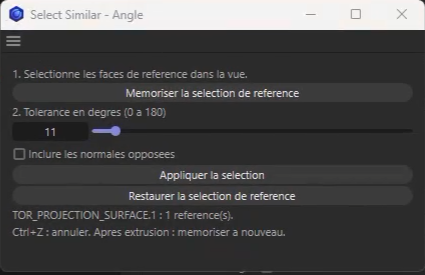
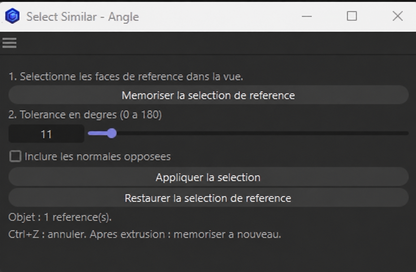
Localize selection tool previews and use generic object names

diff --git a/technical/select-similar-angle/fr/index.html b/technical/select-similar-angle/fr/index.html
@@ -26,19 +26,19 @@
   <meta name="twitter:description" content="Sélection de polygones par normales similaires dans Cinema 4D 2026 : script Python avec tolérance d’angle, références et normales opposées. Code à copier ou télécharger.">
   <meta name="twitter:image" content="https://killianpichon.art/assets/og-image.jpg">
   <link rel="icon" href="assets/icons/favicon-96.png" sizes="96x96" type="image/png">
-  <link rel="stylesheet" href="assets/technical-base.css?v=20261022-tools-v3">
-  <link rel="stylesheet" href="assets/technical-library.css?v=20261022-tools-v3">
+  <link rel="stylesheet" href="assets/technical-base.css?v=20261022-tools-v4">
+  <link rel="stylesheet" href="assets/technical-library.css?v=20261022-tools-v4">
   <link rel="stylesheet" href="assets/analytics-consent.css">
   <link rel="stylesheet" href="assets/motion-exploration.css?v=20260917-gallery-height">
   <link rel="stylesheet" href="assets/organic-floating.css?v=20260906">
   <script>window.KP_I18N={lang:"fr",t:function(s){return {"Optional analytics":"Statistiques facultatives","Close privacy choices":"Fermer les choix de confidentialité","Google Analytics helps measure visits and improve this portfolio. It stays completely unloaded unless you allow it. ":"Google Analytics sert à mesurer les visites et à améliorer ce portfolio. Il reste entièrement inactif tant que tu ne l’autorises pas. ","Privacy details":"Détails de confidentialité","Decline":"Refuser","Allow analytics":"Autoriser les statistiques"}[s]||s;}};</script>
-  <script defer src="assets/technical-library.js?v=20261022-tools-v3"></script>
+  <script defer src="assets/technical-library.js?v=20261022-tools-v4"></script>
   <script defer src="assets/analytics-consent.js"></script>
   <script defer src="assets/motion-exploration.js?v=20260917-animated-media"></script>
   <script defer src="assets/organic-floating.js?v=20260906"></script>
   <script type="application/ld+json">{"@context":"https://schema.org","@graph":[{"@type":"WebPage","@id":"https://killianpichon.art/technical/select-similar-angle/fr/#page","url":"https://killianpichon.art/technical/select-similar-angle/fr/","name":"Select Similar – Angle pour Cinema 4D 2026 — Killian Pichon","description":"Sélection de polygones par normales similaires dans Cinema 4D 2026 : script Python avec tolérance d’angle, références et normales opposées. Code à copier ou télécharger.","inLanguage":"fr-CA","author":{"@type":"Person","name":"Killian Pichon","url":"https://killianpichon.art/"},"isPartOf":{"@id":"https://killianpichon.art/#website"}},{"@type":"BreadcrumbList","itemListElement":[{"@type":"ListItem","position":1,"name":"Portfolio","item":"https://killianpichon.art/"},{"@type":"ListItem","position":2,"name":"Outils & méthodes","item":"https://killianpichon.art/technical/fr/"},{"@type":"ListItem","position":3,"name":"Select Similar – Angle","item":"https://killianpichon.art/technical/select-similar-angle/fr/"}]},{"@type":"SoftwareSourceCode","name":"Select Similar – Angle","description":"Sélectionner des faces d’orientation similaire, même séparées, sur un maillage architectural ou géométrique.","programmingLanguage":"Python","runtimePlatform":"Cinema 4D 2026","codeSampleType":"full","url":"https://killianpichon.art/technical/select-similar-angle/fr/","contentUrl":"https://killianpichon.art/downloads/Select_Similar_Angle.py","author":{"@type":"Person","name":"Killian Pichon","url":"https://killianpichon.art/"}}]}</script>
 </head>
-<body><div id="root"><nav class="site-nav tool-static-nav" aria-label="Navigation principale"><a class="site-mark" href="?lang=fr#/work" aria-label="Killian Pichon">KP</a><div class="site-nav-links"><a class="site-nav-link" href="?lang=fr#/work">Projets</a><a class="site-nav-link" href="?lang=fr#/about">Profil</a><a class="site-nav-link" href="technical/fr/" aria-current="page">Technique</a><a class="site-nav-link" href="?lang=fr#/contact">Contact</a></div><div class="site-lang" role="group" aria-label="Langue"><a class="site-lang-link" href="technical/select-similar-angle/" hreflang="en" lang="en" aria-label="English">EN</a><span class="site-lang-sep" aria-hidden="true">/</span><a class="site-lang-link" href="technical/select-similar-angle/fr/" hreflang="fr" lang="fr" aria-label="Français" aria-current="true">FR</a></div></nav><main class="tool-main"><a class="tool-text-link" href="technical/fr/#personal">← Tous les outils et méthodes</a><header class="tool-intro"><p class="tool-eyebrow">Outils personnels</p><h1>Select Similar – Angle</h1><p>Sélectionner des faces d’orientation similaire, même séparées, sur un maillage architectural ou géométrique.</p><div class="tool-tags"><span>Cinema 4D 2026</span><span>Python</span><span>Sélection de polygones</span></div></header><figure class="tool-interface"><picture><source srcset="assets/tools/select-similar-angle-interface.webp" type="image/webp"><img src="assets/tools/select-similar-angle-interface.png" width="425" height="275" alt="Interface française de Select Similar – Angle avec curseur d’angle, option de normales opposées et boutons Mémoriser, Appliquer et Restaurer." decoding="async"></picture><figcaption class="tool-note">La fenêtre flottante de l’outil dans Cinema 4D, en français. Les scripts français et anglais sont disponibles ci-dessous.</figcaption></figure><div class="tool-story"><section class="tool-section"><h2>Le besoin</h2><p>Sélectionner les faces une par une ralentissait ma modélisation. Je voulais retrouver le principe de Select Similar → Normal de Blender directement dans Cinema 4D, sans changer de logiciel.</p></section><section class="tool-section"><h2>La réponse</h2><p>J’ai développé ce script Python avec l’aide de l’IA, en précisant les paramètres dont j’avais besoin : une sélection de référence, une tolérance d’angle et la possibilité de revenir au point de départ. La fenêtre reste ouverte pendant que je travaille dans la vue.</p></section><section class="tool-section"><h2>À l’usage</h2><p>Testé dans Cinema 4D 2026 dans mon propre workflow. Il me permet de répéter la sélection et d’essayer différentes tolérances sans revenir dans Blender.</p></section></div><section class="tool-section"><h2>Commandes</h2><ul><li>Un curseur d’angle de 0 à 180°.</li><li>Mémoriser la sélection pour fixer les faces de référence.</li><li>Appliquer différentes tolérances à partir de ces références.</li><li>Restaurer la sélection visible de départ.</li><li>Une option pour inclure les normales opposées.</li></ul></section><section class="tool-section"><h2>Mode d’emploi</h2><ol><li>Choisir le script français ou anglais ci-dessous, l’ouvrir dans le Script Manager de Cinema 4D et le lancer.</li><li>Choisir un objet polygonal éditable, passer en mode Polygones et sélectionner les faces de référence.</li><li>Dans la version française, cliquer sur « Memoriser la selection de reference ».</li><li>Régler l’angle, inclure les normales opposées si nécessaire, puis cliquer sur « Appliquer la selection ».</li><li>Ajuster et appliquer à nouveau, ou utiliser « Restaurer la selection de reference » pour retrouver les faces de départ.</li></ol></section><section class="tool-section"><h2>Périmètre et limites</h2><p>Le script agit sur l’objet polygonal actif et compare les normales géométriques dans l’espace local de l’objet. Les faces masquées conservent leur état de sélection. Les normales Phong et les déformations ne sont pas évaluées ; les n-gones utilisent les triangles et quadrangles internes de Cinema 4D. Après un changement de topologie, mémoriser à nouveau les références. Ctrl+Z annule la sélection.</p></section><p class="tool-note">Version française d’origine testée par l’auteur dans Cinema 4D 2026. La version anglaise traduit l’interface et les messages, avec la même logique de sélection. Les autres versions de Cinema 4D n’ont pas été vérifiées.</p><section class="tool-section tool-code" aria-labelledby="source-heading"><div class="tool-code-header"><h2 id="source-heading">Code source Python — Français</h2><div class="tool-actions"><button class="tool-button tool-button-primary" type="button" data-copy-code data-copied="Code copié." data-fallback="Copie automatique indisponible. Code sélectionné : utiliser Ctrl+C ou ⌘C.">Copier le code</button><a class="tool-button" href="downloads/Select_Similar_Angle.py" download="Select_Similar_Angle.py">Télécharger le .py</a></div></div><p>Le script complet ci-dessous est identique au fichier .py téléchargeable.</p><label class="tool-sr-only" for="tool-source">Code à coller dans le Script Manager de Cinema 4D — Français</label><textarea id="tool-source" class="tool-source" readonly spellcheck="false" wrap="off" rows="18"># -*- coding: utf-8 -*-
+<body><div id="root"><nav class="site-nav tool-static-nav" aria-label="Navigation principale"><a class="site-mark" href="?lang=fr#/work" aria-label="Killian Pichon">KP</a><div class="site-nav-links"><a class="site-nav-link" href="?lang=fr#/work">Projets</a><a class="site-nav-link" href="?lang=fr#/about">Profil</a><a class="site-nav-link" href="technical/fr/" aria-current="page">Technique</a><a class="site-nav-link" href="?lang=fr#/contact">Contact</a></div><div class="site-lang" role="group" aria-label="Langue"><a class="site-lang-link" href="technical/select-similar-angle/" hreflang="en" lang="en" aria-label="English">EN</a><span class="site-lang-sep" aria-hidden="true">/</span><a class="site-lang-link" href="technical/select-similar-angle/fr/" hreflang="fr" lang="fr" aria-label="Français" aria-current="true">FR</a></div></nav><main class="tool-main"><a class="tool-text-link" href="technical/fr/#personal">← Tous les outils et méthodes</a><header class="tool-intro"><p class="tool-eyebrow">Outils personnels</p><h1>Select Similar – Angle</h1><p>Sélectionner des faces d’orientation similaire, même séparées, sur un maillage architectural ou géométrique.</p><div class="tool-tags"><span>Cinema 4D 2026</span><span>Python</span><span>Sélection de polygones</span></div></header><figure class="tool-interface"><picture><source srcset="assets/tools/select-similar-angle-interface.webp?v=20261022-tools-v4" type="image/webp"><img src="assets/tools/select-similar-angle-interface.png?v=20261022-tools-v4" width="416" height="272" alt="Interface française de Select Similar – Angle avec curseur d’angle, option de normales opposées, boutons Mémoriser, Appliquer et Restaurer, et le nom générique Objet." decoding="async"></picture><figcaption class="tool-note">La fenêtre flottante de l’outil dans Cinema 4D, avec un nom d’objet générique.</figcaption></figure><div class="tool-story"><section class="tool-section"><h2>Le besoin</h2><p>Sélectionner les faces une par une ralentissait ma modélisation. Je voulais retrouver le principe de Select Similar → Normal de Blender directement dans Cinema 4D, sans changer de logiciel.</p></section><section class="tool-section"><h2>La réponse</h2><p>J’ai développé ce script Python avec l’aide de l’IA, en précisant les paramètres dont j’avais besoin : une sélection de référence, une tolérance d’angle et la possibilité de revenir au point de départ. La fenêtre reste ouverte pendant que je travaille dans la vue.</p></section><section class="tool-section"><h2>À l’usage</h2><p>Testé dans Cinema 4D 2026 dans mon propre workflow. Il me permet de répéter la sélection et d’essayer différentes tolérances sans revenir dans Blender.</p></section></div><section class="tool-section"><h2>Commandes</h2><ul><li>Un curseur d’angle de 0 à 180°.</li><li>Mémoriser la sélection pour fixer les faces de référence.</li><li>Appliquer différentes tolérances à partir de ces références.</li><li>Restaurer la sélection visible de départ.</li><li>Une option pour inclure les normales opposées.</li></ul></section><section class="tool-section"><h2>Mode d’emploi</h2><ol><li>Choisir le script français ou anglais ci-dessous, l’ouvrir dans le Script Manager de Cinema 4D et le lancer.</li><li>Choisir un objet polygonal éditable, passer en mode Polygones et sélectionner les faces de référence.</li><li>Dans la version française, cliquer sur « Memoriser la selection de reference ».</li><li>Régler l’angle, inclure les normales opposées si nécessaire, puis cliquer sur « Appliquer la selection ».</li><li>Ajuster et appliquer à nouveau, ou utiliser « Restaurer la selection de reference » pour retrouver les faces de départ.</li></ol></section><section class="tool-section"><h2>Périmètre et limites</h2><p>Le script agit sur l’objet polygonal actif et compare les normales géométriques dans l’espace local de l’objet. Les faces masquées conservent leur état de sélection. Les normales Phong et les déformations ne sont pas évaluées ; les n-gones utilisent les triangles et quadrangles internes de Cinema 4D. Après un changement de topologie, mémoriser à nouveau les références. Ctrl+Z annule la sélection.</p></section><p class="tool-note">Version française d’origine testée par l’auteur dans Cinema 4D 2026. La version anglaise traduit l’interface et les messages, avec la même logique de sélection. Les autres versions de Cinema 4D n’ont pas été vérifiées.</p><section class="tool-section tool-code" aria-labelledby="source-heading"><div class="tool-code-header"><h2 id="source-heading">Code source Python — Français</h2><div class="tool-actions"><button class="tool-button tool-button-primary" type="button" data-copy-code data-copied="Code copié." data-fallback="Copie automatique indisponible. Code sélectionné : utiliser Ctrl+C ou ⌘C.">Copier le code</button><a class="tool-button" href="downloads/Select_Similar_Angle.py" download="Select_Similar_Angle.py">Télécharger le .py</a></div></div><p>Le script complet ci-dessous est identique au fichier .py téléchargeable.</p><label class="tool-sr-only" for="tool-source">Code à coller dans le Script Manager de Cinema 4D — Français</label><textarea id="tool-source" class="tool-source" readonly spellcheck="false" wrap="off" rows="18"># -*- coding: utf-8 -*-
 &quot;&quot;&quot;Cinema 4D Script Manager: selection similaire par normales geometriques.
 
 Utilisation : objet polygonal editable, mode Polygones, selectionner une

diff --git a/technical/select-similar-angle/index.html b/technical/select-similar-angle/index.html
@@ -26,19 +26,19 @@
   <meta name="twitter:description" content="Select similar polygon normals in Cinema 4D 2026. Python script with angle tolerance, reference selection and opposite normals. Copy the code or download it.">
   <meta name="twitter:image" content="https://killianpichon.art/assets/og-image.jpg">
   <link rel="icon" href="assets/icons/favicon-96.png" sizes="96x96" type="image/png">
-  <link rel="stylesheet" href="assets/technical-base.css?v=20261022-tools-v3">
-  <link rel="stylesheet" href="assets/technical-library.css?v=20261022-tools-v3">
+  <link rel="stylesheet" href="assets/technical-base.css?v=20261022-tools-v4">
+  <link rel="stylesheet" href="assets/technical-library.css?v=20261022-tools-v4">
   <link rel="stylesheet" href="assets/analytics-consent.css">
   <link rel="stylesheet" href="assets/motion-exploration.css?v=20260917-gallery-height">
   <link rel="stylesheet" href="assets/organic-floating.css?v=20260906">
   <script>window.KP_I18N={lang:"en",t:function(s){return {}[s]||s;}};</script>
-  <script defer src="assets/technical-library.js?v=20261022-tools-v3"></script>
+  <script defer src="assets/technical-library.js?v=20261022-tools-v4"></script>
   <script defer src="assets/analytics-consent.js"></script>
   <script defer src="assets/motion-exploration.js?v=20260917-animated-media"></script>
   <script defer src="assets/organic-floating.js?v=20260906"></script>
   <script type="application/ld+json">{"@context":"https://schema.org","@graph":[{"@type":"WebPage","@id":"https://killianpichon.art/technical/select-similar-angle/#page","url":"https://killianpichon.art/technical/select-similar-angle/","name":"Select Similar – Angle for Cinema 4D 2026 — Killian Pichon","description":"Select similar polygon normals in Cinema 4D 2026. Python script with angle tolerance, reference selection and opposite normals. Copy the code or download it.","inLanguage":"en-CA","author":{"@type":"Person","name":"Killian Pichon","url":"https://killianpichon.art/"},"isPartOf":{"@id":"https://killianpichon.art/#website"}},{"@type":"BreadcrumbList","itemListElement":[{"@type":"ListItem","position":1,"name":"Portfolio","item":"https://killianpichon.art/"},{"@type":"ListItem","position":2,"name":"Tools & workflows","item":"https://killianpichon.art/technical/"},{"@type":"ListItem","position":3,"name":"Select Similar – Angle","item":"https://killianpichon.art/technical/select-similar-angle/"}]},{"@type":"SoftwareSourceCode","name":"Select Similar – Angle","description":"Select faces with a similar orientation, even across disconnected parts of an architectural or geometric mesh.","programmingLanguage":"Python","runtimePlatform":"Cinema 4D 2026","codeSampleType":"full","url":"https://killianpichon.art/technical/select-similar-angle/","contentUrl":"https://killianpichon.art/downloads/Select_Similar_Angle_EN.py","author":{"@type":"Person","name":"Killian Pichon","url":"https://killianpichon.art/"}}]}</script>
 </head>
-<body><div id="root"><nav class="site-nav tool-static-nav" aria-label="Primary navigation"><a class="site-mark" href="?lang=en#/work" aria-label="Killian Pichon">KP</a><div class="site-nav-links"><a class="site-nav-link" href="?lang=en#/work">Work</a><a class="site-nav-link" href="?lang=en#/about">About</a><a class="site-nav-link" href="technical/" aria-current="page">Technical</a><a class="site-nav-link" href="?lang=en#/contact">Contact</a></div><div class="site-lang" role="group" aria-label="Language"><a class="site-lang-link" href="technical/select-similar-angle/" hreflang="en" lang="en" aria-label="English" aria-current="true">EN</a><span class="site-lang-sep" aria-hidden="true">/</span><a class="site-lang-link" href="technical/select-similar-angle/fr/" hreflang="fr" lang="fr" aria-label="Français">FR</a></div></nav><main class="tool-main"><a class="tool-text-link" href="technical/#personal">← All tools &amp; workflows</a><header class="tool-intro"><p class="tool-eyebrow">Personal tools</p><h1>Select Similar – Angle</h1><p>Select faces with a similar orientation, even across disconnected parts of an architectural or geometric mesh.</p><div class="tool-tags"><span>Cinema 4D 2026</span><span>Python</span><span>Polygon selection</span></div></header><figure class="tool-interface"><picture><source srcset="assets/tools/select-similar-angle-interface.webp" type="image/webp"><img src="assets/tools/select-similar-angle-interface.png" width="425" height="275" alt="French Select Similar – Angle interface with angle slider, opposite normals option, and capture, apply and restore buttons." decoding="async"></picture><figcaption class="tool-note">French version of the floating tool window in Cinema 4D. English and French scripts are available below.</figcaption></figure><div class="tool-story"><section class="tool-section"><h2>The task</h2><p>Selecting faces one by one was slowing down my modelling. I wanted the principle of Blender’s Select Similar → Normal directly in Cinema 4D, without switching applications.</p></section><section class="tool-section"><h2>The approach</h2><p>I developed this Python script with AI assistance, specifying the controls I actually needed: a reference selection, an angle tolerance and a way to restore the starting point. The floating window stays open while I work in the viewport.</p></section><section class="tool-section"><h2>In use</h2><p>Tested in Cinema 4D 2026 in my own workflow. It lets me repeat the selection and try different tolerances without returning to Blender.</p></section></div><section class="tool-section"><h2>Controls</h2><ul><li>Angle slider from 0 to 180°.</li><li>Capture the selection to keep a set of reference faces.</li><li>Apply different tolerances against those references.</li><li>Restore the original visible selection.</li><li>Optionally include opposite normals.</li></ul></section><section class="tool-section"><h2>Workflow</h2><ol><li>Choose the English or French script below, open it in Cinema 4D’s Script Manager and run it.</li><li>Choose an editable polygon object, switch to Polygon mode and select reference faces.</li><li>In the English version, click “Capture reference selection”.</li><li>Set the angle, optionally include opposite normals, then click “Apply selection”.</li><li>Adjust and apply again, or use “Restore reference selection” to return to the starting faces.</li></ol></section><section class="tool-section"><h2>Scope &amp; limitations</h2><p>Works on the active polygon object, using geometric normals in object-local space. Hidden faces keep their selection state. Phong normals and deformations are not evaluated; n-gons use Cinema 4D’s internal triangles and quads. After a topology change, capture the references again. Ctrl+Z undoes the selection.</p></section><p class="tool-note">Original French version tested by the author in Cinema 4D 2026. The English version translates the interface and messages, with the same selection logic. Other Cinema 4D versions have not been verified.</p><section class="tool-section tool-code" aria-labelledby="source-heading"><div class="tool-code-header"><h2 id="source-heading">Python source — English</h2><div class="tool-actions"><button class="tool-button tool-button-primary" type="button" data-copy-code data-copied="Code copied." data-fallback="Automatic copy unavailable. Code selected: use Ctrl+C or ⌘C.">Copy code</button><a class="tool-button" href="downloads/Select_Similar_Angle_EN.py" download="Select_Similar_Angle_EN.py">Download .py</a></div></div><p>The complete script below is identical to the downloadable .py file.</p><label class="tool-sr-only" for="tool-source">Code to paste into the Cinema 4D Script Manager — English</label><textarea id="tool-source" class="tool-source" readonly spellcheck="false" wrap="off" rows="18"># -*- coding: utf-8 -*-
+<body><div id="root"><nav class="site-nav tool-static-nav" aria-label="Primary navigation"><a class="site-mark" href="?lang=en#/work" aria-label="Killian Pichon">KP</a><div class="site-nav-links"><a class="site-nav-link" href="?lang=en#/work">Work</a><a class="site-nav-link" href="?lang=en#/about">About</a><a class="site-nav-link" href="technical/" aria-current="page">Technical</a><a class="site-nav-link" href="?lang=en#/contact">Contact</a></div><div class="site-lang" role="group" aria-label="Language"><a class="site-lang-link" href="technical/select-similar-angle/" hreflang="en" lang="en" aria-label="English" aria-current="true">EN</a><span class="site-lang-sep" aria-hidden="true">/</span><a class="site-lang-link" href="technical/select-similar-angle/fr/" hreflang="fr" lang="fr" aria-label="Français">FR</a></div></nav><main class="tool-main"><a class="tool-text-link" href="technical/#personal">← All tools &amp; workflows</a><header class="tool-intro"><p class="tool-eyebrow">Personal tools</p><h1>Select Similar – Angle</h1><p>Select faces with a similar orientation, even across disconnected parts of an architectural or geometric mesh.</p><div class="tool-tags"><span>Cinema 4D 2026</span><span>Python</span><span>Polygon selection</span></div></header><figure class="tool-interface"><picture><source srcset="assets/tools/select-similar-angle-interface-en.webp" type="image/webp"><img src="assets/tools/select-similar-angle-interface-en.png" width="416" height="272" alt="English Select Similar – Angle interface with angle slider, opposite normals option, capture, apply and restore buttons, and the generic object name Object." decoding="async"></picture><figcaption class="tool-note">English interface preview, translated from the original screenshot.</figcaption></figure><div class="tool-story"><section class="tool-section"><h2>The task</h2><p>Selecting faces one by one was slowing down my modelling. I wanted the principle of Blender’s Select Similar → Normal directly in Cinema 4D, without switching applications.</p></section><section class="tool-section"><h2>The approach</h2><p>I developed this Python script with AI assistance, specifying the controls I actually needed: a reference selection, an angle tolerance and a way to restore the starting point. The floating window stays open while I work in the viewport.</p></section><section class="tool-section"><h2>In use</h2><p>Tested in Cinema 4D 2026 in my own workflow. It lets me repeat the selection and try different tolerances without returning to Blender.</p></section></div><section class="tool-section"><h2>Controls</h2><ul><li>Angle slider from 0 to 180°.</li><li>Capture the selection to keep a set of reference faces.</li><li>Apply different tolerances against those references.</li><li>Restore the original visible selection.</li><li>Optionally include opposite normals.</li></ul></section><section class="tool-section"><h2>Workflow</h2><ol><li>Choose the English or French script below, open it in Cinema 4D’s Script Manager and run it.</li><li>Choose an editable polygon object, switch to Polygon mode and select reference faces.</li><li>In the English version, click “Capture reference selection”.</li><li>Set the angle, optionally include opposite normals, then click “Apply selection”.</li><li>Adjust and apply again, or use “Restore reference selection” to return to the starting faces.</li></ol></section><section class="tool-section"><h2>Scope &amp; limitations</h2><p>Works on the active polygon object, using geometric normals in object-local space. Hidden faces keep their selection state. Phong normals and deformations are not evaluated; n-gons use Cinema 4D’s internal triangles and quads. After a topology change, capture the references again. Ctrl+Z undoes the selection.</p></section><p class="tool-note">Original French version tested by the author in Cinema 4D 2026. The English version translates the interface and messages, with the same selection logic. Other Cinema 4D versions have not been verified.</p><section class="tool-section tool-code" aria-labelledby="source-heading"><div class="tool-code-header"><h2 id="source-heading">Python source — English</h2><div class="tool-actions"><button class="tool-button tool-button-primary" type="button" data-copy-code data-copied="Code copied." data-fallback="Automatic copy unavailable. Code selected: use Ctrl+C or ⌘C.">Copy code</button><a class="tool-button" href="downloads/Select_Similar_Angle_EN.py" download="Select_Similar_Angle_EN.py">Download .py</a></div></div><p>The complete script below is identical to the downloadable .py file.</p><label class="tool-sr-only" for="tool-source">Code to paste into the Cinema 4D Script Manager — English</label><textarea id="tool-source" class="tool-source" readonly spellcheck="false" wrap="off" rows="18"># -*- coding: utf-8 -*-
 &quot;&quot;&quot;Cinema 4D Script Manager: select similar geometric polygon normals.
 
 Usage: select one or more faces on an editable polygon object in Polygon mode,

diff --git a/data/technical.js b/data/technical.js
@@ -2,7 +2,7 @@
 (function (root) {
   const content = {
     updated: '2026-10-22',
-    revision: '20261022-tools-v3',
+    revision: '20261022-tools-v4',
     en: {
       title: 'Tools & workflows',
       meta: 'Cinema 4D Python scripts, production tools and DJ MIDI mappings by Killian Pichon. Personal tools, professional work and experiments to reuse.',
@@ -27,7 +27,7 @@
           need: 'Selecting faces one by one was slowing down my modelling. I wanted the principle of Blender’s Select Similar → Normal directly in Cinema 4D, without switching applications.',
           response: 'I developed this Python script with AI assistance, specifying the controls I actually needed: a reference selection, an angle tolerance and a way to restore the starting point. The floating window stays open while I work in the viewport.',
           result: 'Tested in Cinema 4D 2026 in my own workflow. It lets me repeat the selection and try different tolerances without returning to Blender.',
-          preview: { src: 'assets/tools/select-similar-angle-interface.webp', fallback: 'assets/tools/select-similar-angle-interface.png', width: 425, height: 275, alt: 'French Select Similar – Angle interface with angle slider, opposite normals option, and capture, apply and restore buttons.', caption: 'French version of the floating tool window in Cinema 4D. English and French scripts are available below.' },
+          preview: { src: 'assets/tools/select-similar-angle-interface-en.webp', fallback: 'assets/tools/select-similar-angle-interface-en.png', width: 416, height: 272, alt: 'English Select Similar – Angle interface with angle slider, opposite normals option, capture, apply and restore buttons, and the generic object name Object.', caption: 'English interface preview, translated from the original screenshot.' },
           features: ['Angle slider from 0 to 180°.', 'Capture the selection to keep a set of reference faces.', 'Apply different tolerances against those references.', 'Restore the original visible selection.', 'Optionally include opposite normals.'],
           workflow: ['Choose the English or French script below, open it in Cinema 4D’s Script Manager and run it.', 'Choose an editable polygon object, switch to Polygon mode and select reference faces.', 'In the English version, click “Capture reference selection”.', 'Set the angle, optionally include opposite normals, then click “Apply selection”.', 'Adjust and apply again, or use “Restore reference selection” to return to the starting faces.'],
           limits: 'Works on the active polygon object, using geometric normals in object-local space. Hidden faces keep their selection state. Phong normals and deformations are not evaluated; n-gons use Cinema 4D’s internal triangles and quads. After a topology change, capture the references again. Ctrl+Z undoes the selection.',
@@ -78,7 +78,7 @@
           need: 'Sélectionner les faces une par une ralentissait ma modélisation. Je voulais retrouver le principe de Select Similar → Normal de Blender directement dans Cinema 4D, sans changer de logiciel.',
           response: 'J’ai développé ce script Python avec l’aide de l’IA, en précisant les paramètres dont j’avais besoin : une sélection de référence, une tolérance d’angle et la possibilité de revenir au point de départ. La fenêtre reste ouverte pendant que je travaille dans la vue.',
           result: 'Testé dans Cinema 4D 2026 dans mon propre workflow. Il me permet de répéter la sélection et d’essayer différentes tolérances sans revenir dans Blender.',
-          preview: { src: 'assets/tools/select-similar-angle-interface.webp', fallback: 'assets/tools/select-similar-angle-interface.png', width: 425, height: 275, alt: 'Interface française de Select Similar – Angle avec curseur d’angle, option de normales opposées et boutons Mémoriser, Appliquer et Restaurer.', caption: 'La fenêtre flottante de l’outil dans Cinema 4D, en français. Les scripts français et anglais sont disponibles ci-dessous.' },
+          preview: { src: 'assets/tools/select-similar-angle-interface.webp?v=20261022-tools-v4', fallback: 'assets/tools/select-similar-angle-interface.png?v=20261022-tools-v4', width: 416, height: 272, alt: 'Interface française de Select Similar – Angle avec curseur d’angle, option de normales opposées, boutons Mémoriser, Appliquer et Restaurer, et le nom générique Objet.', caption: 'La fenêtre flottante de l’outil dans Cinema 4D, avec un nom d’objet générique.' },
           features: ['Un curseur d’angle de 0 à 180°.', 'Mémoriser la sélection pour fixer les faces de référence.', 'Appliquer différentes tolérances à partir de ces références.', 'Restaurer la sélection visible de départ.', 'Une option pour inclure les normales opposées.'],
           workflow: ['Choisir le script français ou anglais ci-dessous, l’ouvrir dans le Script Manager de Cinema 4D et le lancer.', 'Choisir un objet polygonal éditable, passer en mode Polygones et sélectionner les faces de référence.', 'Dans la version française, cliquer sur « Memoriser la selection de reference ».', 'Régler l’angle, inclure les normales opposées si nécessaire, puis cliquer sur « Appliquer la selection ».', 'Ajuster et appliquer à nouveau, ou utiliser « Restaurer la selection de reference » pour retrouver les faces de départ.'],
           limits: 'Le script agit sur l’objet polygonal actif et compare les normales géométriques dans l’espace local de l’objet. Les faces masquées conservent leur état de sélection. Les normales Phong et les déformations ne sont pas évaluées ; les n-gones utilisent les triangles et quadrangles internes de Cinema 4D. Après un changement de topologie, mémoriser à nouveau les références. Ctrl+Z annule la sélection.',

diff --git a/technical/fr/index.html b/technical/fr/index.html
@@ -26,13 +26,13 @@
   <meta name="twitter:description" content="Scripts Python pour Cinema 4D, outils de production et mappings MIDI DJ de Killian Pichon. Projets professionnels, outils personnels et expérimentations à réutiliser.">
   <meta name="twitter:image" content="https://killianpichon.art/assets/og-image.jpg">
   <link rel="icon" href="assets/icons/favicon-96.png" sizes="96x96" type="image/png">
-  <link rel="stylesheet" href="assets/technical-base.css?v=20261022-tools-v3">
-  <link rel="stylesheet" href="assets/technical-library.css?v=20261022-tools-v3">
+  <link rel="stylesheet" href="assets/technical-base.css?v=20261022-tools-v4">
+  <link rel="stylesheet" href="assets/technical-library.css?v=20261022-tools-v4">
   <link rel="stylesheet" href="assets/analytics-consent.css">
   <link rel="stylesheet" href="assets/motion-exploration.css?v=20260917-gallery-height">
   <link rel="stylesheet" href="assets/organic-floating.css?v=20260906">
   <script>window.KP_I18N={lang:"fr",t:function(s){return {"Optional analytics":"Statistiques facultatives","Close privacy choices":"Fermer les choix de confidentialité","Google Analytics helps measure visits and improve this portfolio. It stays completely unloaded unless you allow it. ":"Google Analytics sert à mesurer les visites et à améliorer ce portfolio. Il reste entièrement inactif tant que tu ne l’autorises pas. ","Privacy details":"Détails de confidentialité","Decline":"Refuser","Allow analytics":"Autoriser les statistiques"}[s]||s;}};</script>
-  <script defer src="assets/technical-library.js?v=20261022-tools-v3"></script>
+  <script defer src="assets/technical-library.js?v=20261022-tools-v4"></script>
   <script defer src="assets/analytics-consent.js"></script>
   <script defer src="assets/motion-exploration.js?v=20260917-animated-media"></script>
   <script defer src="assets/organic-floating.js?v=20260906"></script>

diff --git a/technical/denon-sc2000-traktor/fr/index.html b/technical/denon-sc2000-traktor/fr/index.html
@@ -26,13 +26,13 @@
   <meta name="twitter:description" content="Mapping Denon DN-SC2000 pour Traktor Pro 4 : deux decks, effets et configuration MIDI documentée. Version 5.1.0 testée par Killian Pichon.">
   <meta name="twitter:image" content="https://killianpichon.art/assets/og-image.jpg">
   <link rel="icon" href="assets/icons/favicon-96.png" sizes="96x96" type="image/png">
-  <link rel="stylesheet" href="assets/technical-base.css?v=20261022-tools-v3">
-  <link rel="stylesheet" href="assets/technical-library.css?v=20261022-tools-v3">
+  <link rel="stylesheet" href="assets/technical-base.css?v=20261022-tools-v4">
+  <link rel="stylesheet" href="assets/technical-library.css?v=20261022-tools-v4">
   <link rel="stylesheet" href="assets/analytics-consent.css">
   <link rel="stylesheet" href="assets/motion-exploration.css?v=20260917-gallery-height">
   <link rel="stylesheet" href="assets/organic-floating.css?v=20260906">
   <script>window.KP_I18N={lang:"fr",t:function(s){return {"Optional analytics":"Statistiques facultatives","Close privacy choices":"Fermer les choix de confidentialité","Google Analytics helps measure visits and improve this portfolio. It stays completely unloaded unless you allow it. ":"Google Analytics sert à mesurer les visites et à améliorer ce portfolio. Il reste entièrement inactif tant que tu ne l’autorises pas. ","Privacy details":"Détails de confidentialité","Decline":"Refuser","Allow analytics":"Autoriser les statistiques"}[s]||s;}};</script>
-  <script defer src="assets/technical-library.js?v=20261022-tools-v3"></script>
+  <script defer src="assets/technical-library.js?v=20261022-tools-v4"></script>
   <script defer src="assets/analytics-consent.js"></script>
   <script defer src="assets/motion-exploration.js?v=20260917-animated-media"></script>
   <script defer src="assets/organic-floating.js?v=20260906"></script>

diff --git a/technical/index.html b/technical/index.html
@@ -26,13 +26,13 @@
   <meta name="twitter:description" content="Cinema 4D Python scripts, production tools and DJ MIDI mappings by Killian Pichon. Personal tools, professional work and experiments to reuse.">
   <meta name="twitter:image" content="https://killianpichon.art/assets/og-image.jpg">
   <link rel="icon" href="assets/icons/favicon-96.png" sizes="96x96" type="image/png">
-  <link rel="stylesheet" href="assets/technical-base.css?v=20261022-tools-v3">
-  <link rel="stylesheet" href="assets/technical-library.css?v=20261022-tools-v3">
+  <link rel="stylesheet" href="assets/technical-base.css?v=20261022-tools-v4">
+  <link rel="stylesheet" href="assets/technical-library.css?v=20261022-tools-v4">
   <link rel="stylesheet" href="assets/analytics-consent.css">
   <link rel="stylesheet" href="assets/motion-exploration.css?v=20260917-gallery-height">
   <link rel="stylesheet" href="assets/organic-floating.css?v=20260906">
   <script>window.KP_I18N={lang:"en",t:function(s){return {}[s]||s;}};</script>
-  <script defer src="assets/technical-library.js?v=20261022-tools-v3"></script>
+  <script defer src="assets/technical-library.js?v=20261022-tools-v4"></script>
   <script defer src="assets/analytics-consent.js"></script>
   <script defer src="assets/motion-exploration.js?v=20260917-animated-media"></script>
   <script defer src="assets/organic-floating.js?v=20260906"></script>

diff --git a/technical/denon-sc2000-traktor/index.html b/technical/denon-sc2000-traktor/index.html
@@ -26,13 +26,13 @@
   <meta name="twitter:description" content="Denon DN-SC2000 mapping for Traktor Pro 4: two decks, FX and a documented MIDI setup. Version 5.1.0 tested by Killian Pichon.">
   <meta name="twitter:image" content="https://killianpichon.art/assets/og-image.jpg">
   <link rel="icon" href="assets/icons/favicon-96.png" sizes="96x96" type="image/png">
-  <link rel="stylesheet" href="assets/technical-base.css?v=20261022-tools-v3">
-  <link rel="stylesheet" href="assets/technical-library.css?v=20261022-tools-v3">
+  <link rel="stylesheet" href="assets/technical-base.css?v=20261022-tools-v4">
+  <link rel="stylesheet" href="assets/technical-library.css?v=20261022-tools-v4">
   <link rel="stylesheet" href="assets/analytics-consent.css">
   <link rel="stylesheet" href="assets/motion-exploration.css?v=20260917-gallery-height">
   <link rel="stylesheet" href="assets/organic-floating.css?v=20260906">
   <script>window.KP_I18N={lang:"en",t:function(s){return {}[s]||s;}};</script>
-  <script defer src="assets/technical-library.js?v=20261022-tools-v3"></script>
+  <script defer src="assets/technical-library.js?v=20261022-tools-v4"></script>
   <script defer src="assets/analytics-consent.js"></script>
   <script defer src="assets/motion-exploration.js?v=20260917-animated-media"></script>
   <script defer src="assets/organic-floating.js?v=20260906"></script>

diff --git a/index.html b/index.html
@@ -18,7 +18,7 @@
   <link rel="preconnect" href="https://fonts.gstatic.com" crossorigin>
   <link rel="stylesheet" href="assets/analytics-consent.css">
   <link rel="stylesheet" href="assets/protected-content.css">
-  <link rel="stylesheet" href="assets/technical-library.css?v=20261022-tools-v3">
+  <link rel="stylesheet" href="assets/technical-library.css?v=20261022-tools-v4">
   <script defer src="assets/analytics-consent.js"></script>
   <script defer src="assets/protected-content.js"></script>
   <link rel="stylesheet" href="assets/motion-exploration.css?v=20260917-gallery-height">
@@ -713,8 +713,8 @@ function(a,b,c){if(!Vd(b))throw Error(m(200));return Wd(null,a,b,!1,c)};Q.unmoun
 })();
 </script>
   <script>window.KP_SHOW_TECHNICAL = true;</script>
-  <script src="data/technical.js?v=20261022-tools-v3"></script>
-  <script src="assets/technical-library.js?v=20261022-tools-v3"></script>
+  <script src="data/technical.js?v=20261022-tools-v4"></script>
+  <script src="assets/technical-library.js?v=20261022-tools-v4"></script>
   <!-- Fiches des projets. Chargement classique, sans defer : l'application
        ci-dessous les lit pendant son evaluation. -->
   <script src="data/projects.js?v=20261021-nda-title"></script>

diff --git a/README.md b/README.md
@@ -1,5 +1,24 @@
 # Portfolio de Killian Pichon
 
+### Captures de l’outil localisées — 22 octobre 2026
+
+La capture française de Select Similar – Angle remplace le nom de l’objet
+par « Objet ». Une variante anglaise reprend les libellés exacts du script
+anglais et affiche « Object ». Chaque fiche utilise l’image de sa langue ;
+la légende anglaise précise qu’elle est traduite depuis la capture d’origine.
+Ces retouches utilisent ImageGen intégré. Les boutons, le curseur à 11°, la
+case décochée et la disposition sont conservés. Les scripts Python ne changent pas.
+
+Les fichiers `assets/tools/select-similar-angle-interface.{webp,png}` sont
+remplacés et `assets/tools/select-similar-angle-interface-en.{webp,png}` sont
+ajoutés. Les images sont ramenées aux dimensions de la nouvelle capture fournie,
+416 × 272, et encodées en WebP sans perte (environ 82 Ko) avec repli PNG
+(environ 99 Ko). `data/technical.js` définit les images, textes alternatifs et
+légendes ; la révision `20261022-tools-v4` renouvelle les caches. Les pages
+statiques sont régénérées. Le test HTTP vérifie la variante attendue par langue,
+ses dimensions et son repli PNG. Les prompts complets restent dans le dossier
+local d’artefacts de la tâche, hors du dépôt public.
+
 ### Scripts français et anglais — 22 octobre 2026
 
 Select Similar – Angle propose deux scripts autonomes : le fichier français
@@ -14,8 +33,8 @@ Chaque fiche présente d’abord le script correspondant à sa langue, puis un
 volet dépliable pour l’autre version. Chaque code possède son bouton de copie
 et son téléchargement, avec un nom de fichier distinct. Le volet fonctionne
 aussi sans JavaScript. Le mode d’emploi utilise les libellés de la version
-présentée en premier. La capture existante reste identifiée comme l’interface
-française ; elle n’est pas présentée comme une capture de la traduction anglaise.
+présentée en premier. Chaque langue possède maintenant son aperçu d’interface ;
+la variante anglaise est identifiée comme une traduction de la capture d’origine.
 
 Les sources concernées sont `data/technical.js`, le rendu et le style
 `assets/technical-library.*`, le générateur `tools/build-technical.cjs` et le
